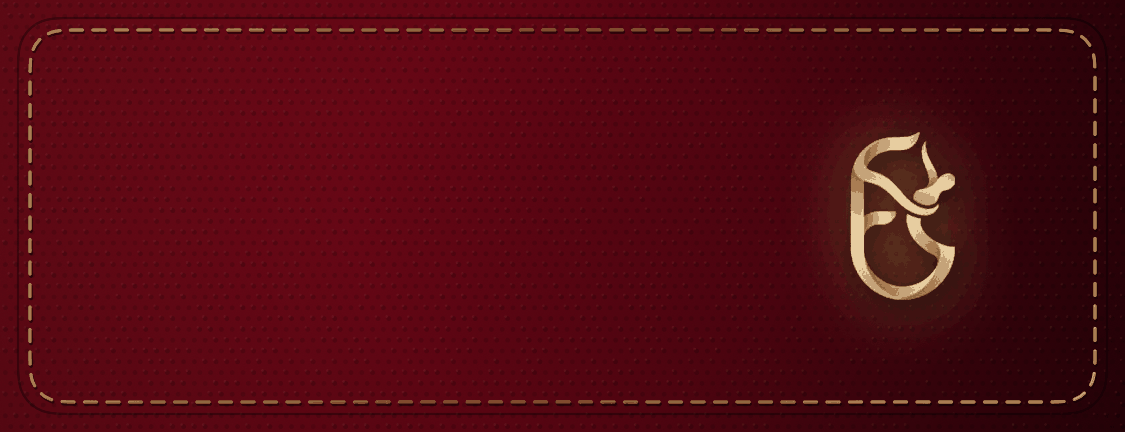
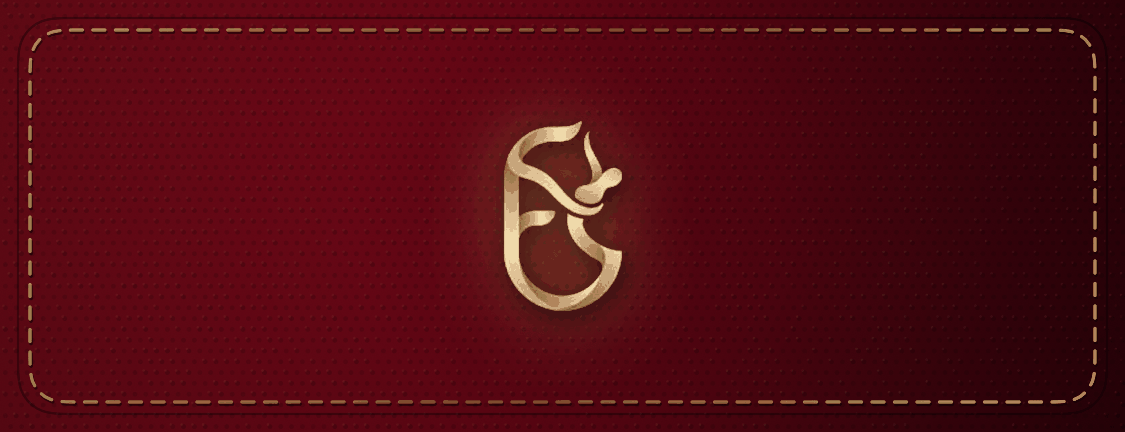
fix(wallet): clean strip with the emblem in the middle, name and club below it
The name as primary field was printed large across the strip and over the emblem. Now the
strip is only leather and emblem (like the card in Encore), the dancer ID sits next to the
logo, and name and club are regular fields under the strip.

Changed region(s): [[0.4356, 0.2708, 0.56, 0.7222], [0.7467, 0.3009, 0.8711, 0.6921]]

diff --git a/web/src/app/api/wallet/pass/route.ts b/web/src/app/api/wallet/pass/route.ts
@@ -128,7 +128,7 @@ export async function GET(request: NextRequest) {
     )
 
     // Store card: a strip image across the card carries the app's leather and gold emblem
-    // (rendered from the app, one per theme); the name sits on the strip like on the card in Encore.
+    // (rendered from the app, one per theme). Wallet allows only a solid colour for the rest of the card.
     pass.type = 'storeCard'
 
     pass.setBarcodes({
@@ -138,9 +138,13 @@ export async function GET(request: NextRequest) {
       altText: 'Naskenuj a prepoj sa v Encore'
     })
 
-    pass.primaryFields.push({ key: 'member', label: 'TANEČNÍK', value: userName })
-    pass.secondaryFields.push({ key: 'club', label: 'TANEČNÝ KLUB', value: userClub })
-    pass.auxiliaryFields.push({ key: 'dancer', label: 'ID TANEČNÍKA', value: profile?.dancer_code || inviteCode })
+    // No primary field: Wallet would print it large across the strip, over the emblem. The strip stays
+    // clean leather, the ID sits next to the logo and name and club below the strip.
+    pass.headerFields.push({ key: 'dancer', label: 'ID TANEČNÍKA', value: profile?.dancer_code || inviteCode })
+    pass.secondaryFields.push(
+      { key: 'member', label: 'TANEČNÍK', value: userName },
+      { key: 'club', label: 'TANEČNÝ KLUB', value: userClub }
+    )
 
     pass.backFields.push(
       {
